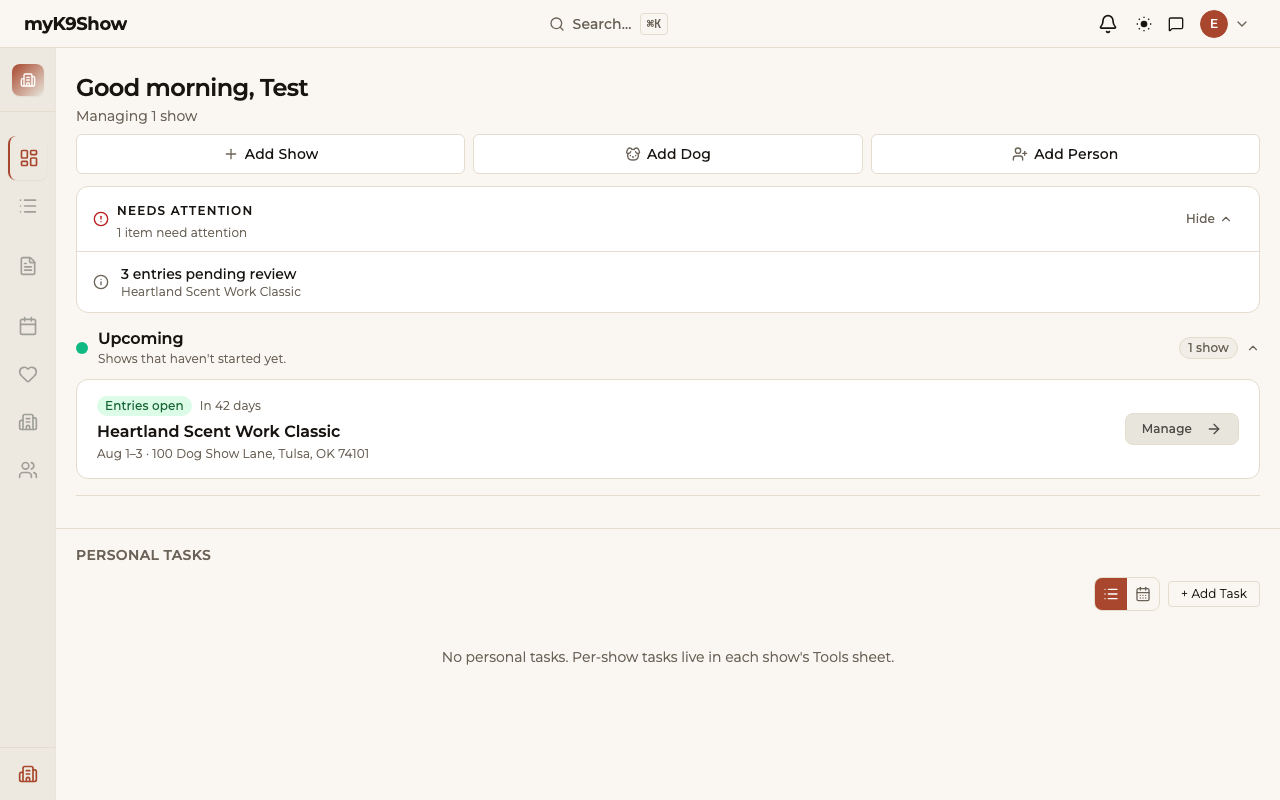
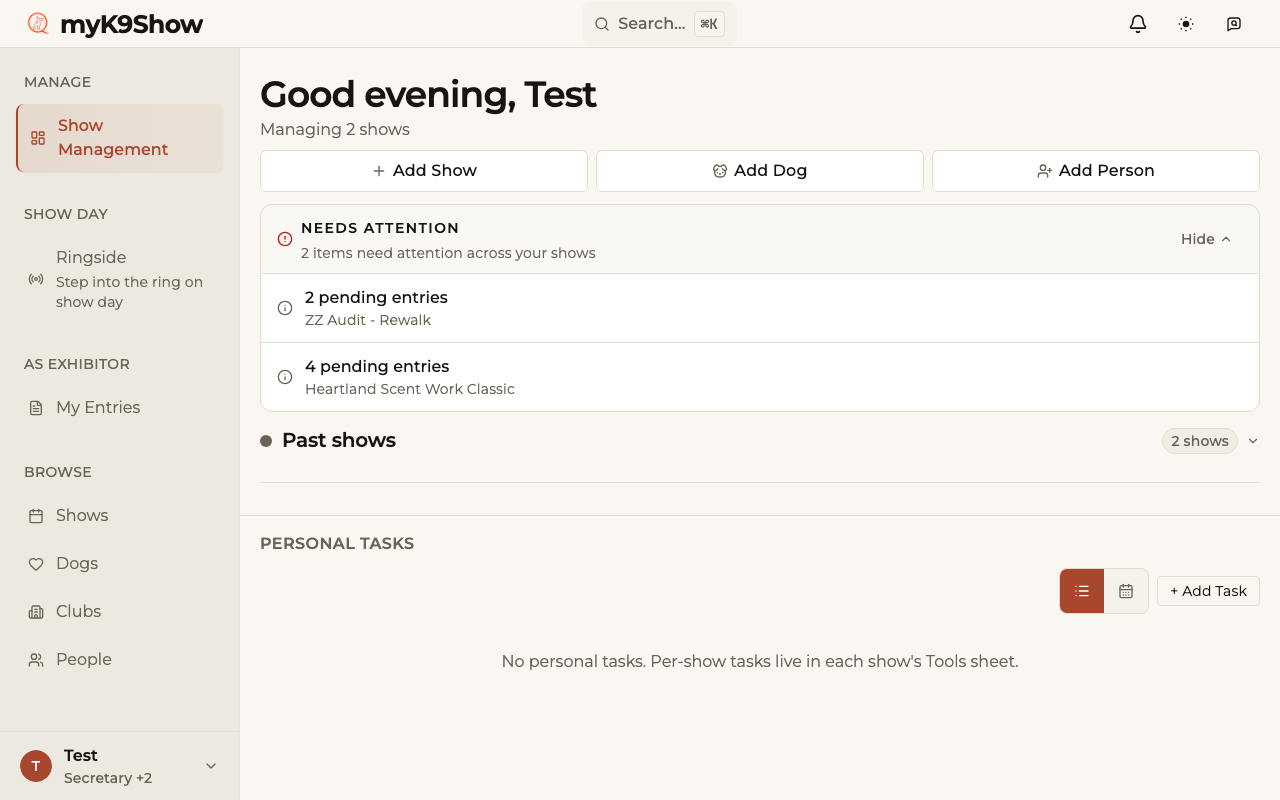
docs(secretary): recapture the guide screenshots and move it off qa-draft
The guide has been complete in words since the task walk; the only thing
keeping it at `qa-draft` was its images. The previous set was captured
2026-06-25, before the workbench collapsed into Show Desk, so it showed screens
that no longer exist -- which is why they were stripped rather than shipped.

Recaptured 8 against current `main`, and deleted the 16 stale files instead of
leaving them to be picked up by mistake. Nothing referenced them.

The set is deliberately smaller than the 24 it replaces. The guide is text-first
and a shot earns its place only where a picture settles "which screen am I on"
faster than a sentence can -- words survive a UI change, pictures do not, which
is exactly how the last set rotted. Cards without a shot are intentional.

The shot list needed rewriting too, not just re-statusing: its "Guide section"
column pointed at numbered sections that stopped existing when the guide became
23 task cards.

Two capture traps are recorded there, both found the hard way:

- Show-scoped pages open on a tall header that fills a 1280x800 viewport, so a
  plain screenshot returns the header and none of the content. The first pass
  produced exactly that.
- Show Desk and Entry Management render a real `[role="tablist"]`; Reports,
  Results and Submit Results render tab-LOOKING navigation with no tablist role,
  so a scroll anchored on that selector silently does nothing on those three.
[…]

diff --git a/docs/training/screenshot-shot-list.md b/docs/training/screenshot-shot-list.md
@@ -40,34 +40,36 @@ Every screenshot and diagram in final documentation and training materials must 
 
 ## Part 1 — Secretary Guide Screenshots
 
-| Shot ID | Description                                                                   | Route                                                         | Account                       | Viewport | Expected state                                                                              | Guide section        | Status                                            |
-| ------- | ----------------------------------------------------------------------------- | ------------------------------------------------------------- | ----------------------------- | -------- | ------------------------------------------------------------------------------------------- | -------------------- | ------------------------------------------------- |
-| S-01    | Secretary dashboard — one active show                                         | `/secretary/dashboard`                                        | `secretary@myk9t.com` | Desktop  | Heritage show listed with entry count badge                                                 | § 1 Dashboard        | `ready`                                           |
-| S-02    | Create Show wizard — Step 1 (show details)                                    | `/secretary/create-show/wizard`                               | `secretary@myk9t.com` | Desktop  | Form with name, org, dates, entry fee, entry window                                         | § 2 Create a Show    | `ready`                                           |
-| S-03    | Create Show wizard — Step 2 (trial config)                                    | `/secretary/create-show/wizard`                               | `secretary@myk9t.com` | Desktop  | At least one trial with date and event number                                               | § 2                  | `captured 2026-06-25`                             |
-| S-04    | Create Show wizard — Step 3 (class selection)                                 | `/secretary/create-show/wizard`                               | `secretary@myk9t.com` | Desktop  | Classes listed with judge assignment dropdowns                                              | § 2                  | `ready`                                           |
-| S-05    | Create Show wizard — Step 4 (review)                                          | `/secretary/create-show/wizard`                               | `secretary@myk9t.com` | Desktop  | Full review of show + trials + classes                                                      | § 2                  | `captured 2026-06-25`                             |
-| S-06    | Show Workbench — Setup tab                                                    | `/shows/:showId` (Setup tab)                                  | `secretary@myk9t.com` | Desktop  | Show details visible; readiness signals                                                     | § 3 Show Setup       | `ready`                                           |
-| S-07    | Entry Management — Needs review queue and focused registration                | `/shows/:showId/entry-management`                             | `secretary@myk9t.com` | Desktop  | Needs review selected; registration queue and focused-registration pane visible             | § 4 Entry Management | `needs recapture — cockpit redesign`              |
-| S-08    | Entry Management — focused registration Entries and actions                   | `/shows/:showId/entry-management`                             | `secretary@myk9t.com` | Desktop  | Focused registration open; Dog group expanded with child Entry status and actions visible   | § 4                  | `needs recapture — cockpit redesign`              |
-| S-09    | Entry Management — registration selection and floating toolbar                | `/shows/:showId/entry-management`                             | `secretary@myk9t.com` | Desktop  | Two or more registrations checked; compact floating toolbar shows registration/Entry counts | § 4                  | `needs recapture — cockpit redesign`              |
-| S-10    | Entry Management — Exceptions / Waitlist                                      | `/shows/:showId/entry-management?tab=exceptions&exception=waitlist` | `secretary@myk9t.com` | Desktop  | Exceptions peer visible; Waitlist selected                                                   | § 4                  | `needs recapture — cockpit redesign`              |
-| S-11    | Message Center — compose form                                                 | `/secretary/messages`                                         | `secretary@myk9t.com` | Desktop  | New message compose panel open, show pre-selected                                           | § 5 Communications   | `ready`                                           |
-| S-12    | Reports page — Check-in Sheet selected                                        | `/shows/:showId/reports`                                      | `secretary@myk9t.com` | Desktop  | Trial selector showing Heritage trial; Check-in Sheet selected                              | § 6 Reports          | `ready`                                           |
-| S-13    | Reports page — Steward's Report selected                                      | `/shows/:showId/reports`                                      | `secretary@myk9t.com` | Desktop  | Steward's Report type selected; preview rendered                                            | § 6                  | `ready`                                           |
-| S-14    | Reports page — Armband Labels                                                 | `/shows/:showId/reports`                                      | `secretary@myk9t.com` | Desktop  | Armband Labels selected; preview visible                                                    | § 6                  | `ready`                                           |
-| S-15    | Show Desk — task queue with "Show in progress" banner and Next Best Action    | `/shows/:showId/show-desk`                                    | `secretary@myk9t.com` | Desktop  | Task queue visible; "Show in progress" banner; Next Best Action button                      | § 7 Show Desk        | `ready`                                           |
-| S-16    | Entry Management — "Remove entry?" confirmation dialog                        | `/shows/:showId/entry-management`                             | `secretary@myk9t.com` | Desktop  | Focused registration open; "Remove entry?" dialog opened from a child Entry action          | § 7                  | `needs recapture — cockpit redesign`              |
-| S-17    | Show Desk — move-up dialog                                                    | `/shows/:showId/show-desk`                                    | `secretary@myk9t.com` | Desktop  | Move-up dialog open; target class picker visible                                            | § 7                  | `ready`                                           |
-| S-18    | Late Entry registration wizard — Step 1 (Select Dogs)                         | `/secretary/register/:showId?source=show-desk&entryMode=late` | `secretary@myk9t.com` | Desktop  | Late Entry wizard Step 1 open; dog search field and filters visible                         | § 7                  | `ready`                                           |
-| S-19    | Show Desk — Tools panel side sheet                                            | `/shows/:showId/show-desk`                                    | `secretary@myk9t.com` | Desktop  | Tools panel open; Late entries, Access codes, Volunteers visible                            | § 7                  | `ready`                                           |
-| S-20    | Results Control — visibility preset cards                                     | `/shows/:showId/results-control`                              | `secretary@myk9t.com` | Desktop  | Three preset cards visible; "After Class" card highlighted as active                        | § 8 Results Control  | `ready`                                           |
-| S-21    | Results Control — Release Results action bar                                  | `/shows/:showId/results-control`                              | `secretary@myk9t.com` | Desktop  | Classes selected via checkboxes; sticky bottom bar showing "Release Results" button enabled | § 8                  | `ready`                                           |
-| S-22    | Submit Results — submission summary (preflight)                               | `/shows/:showId/submit-results`                               | `secretary@myk9t.com` | Desktop  | Submission summary checklist showing entries ready count                                    | § 9 Submit to AKC    | `ready`                                           |
-| S-23    | Submit Results — XML download button                                          | `/shows/:showId/submit-results`                               | `secretary@myk9t.com` | Desktop  | "Download XML" button visible; no blocking warnings                                         | § 9                  | `ready`                                           |
-| S-24    | Submit Results — preflight warning (missing AKC numbers)                      | `/shows/:showId/submit-results`                               | `secretary@myk9t.com` | Desktop  | Warning listing dogs without AKC registration numbers                                       | § 9                  | `ready`                                           |
+> **Rewritten 2026-08-30.** The guide was restructured from numbered `§` sections into
+> 23 task cards, so the old section column pointed at headings that no longer exist. The
+> set is also deliberately smaller: the guide is text-first, and a shot earns its place
+> only where a picture settles *which screen am I on* faster than a sentence can. Words
+> survive a UI change; pictures do not — the previous set went stale the moment the
+> workbench collapsed into Show Desk, and sixteen files were deleted rather than left to
+> be reused by mistake.
 
----
+| Shot ID | Description | Route | Account | Viewport | Expected state | Guide card | Status |
+| --- | --- | --- | --- | --- | --- | --- | --- |
+| S-01 | Secretary dashboard | `/secretary/dashboard` | `secretary@myk9t.com` | Desktop | Managed shows listed with the needs-attention summary | Before you start | `captured 2026-08-30` |
+| S-02 | Create Show wizard — Step 1 | `/secretary/create-show/wizard` | `secretary@myk9t.com` | Desktop | Four-step tracker; clone option; starred required fields | 1 · Create a show | `captured 2026-08-30` |
+| S-07 | Entry Management — Needs review queue | `/shows/:showId/entry-management` | `secretary@myk9t.com` | Desktop | Queue chips with counts; rows offering Review registration | 3 · Approve entries | `captured 2026-08-30` |
+| S-10 | Entry Management — Exceptions / Waitlist | `/shows/:showId/entry-management?tab=exceptions&exception=waitlist` | `secretary@myk9t.com` | Desktop | Exceptions tab with the waitlist selected | 6 · Manage the wait list | `captured 2026-08-30` |
+| S-12 | Reports — Check-in Sheet | `/shows/:showId/reports` | `secretary@myk9t.com` | Desktop | Report / Trial / Class / Sort controls and Print | 11 · Print check-in sheets | `captured 2026-08-30` |
+| S-15 | Show Desk — focused class | `/shows/:showId/show-desk` | `secretary@myk9t.com` | Desktop | Focused class with the Run order control and Move up per entry | 10 · Run order, 15 · Move up | `captured 2026-08-30` |
+| S-20 | Results — visibility presets | `/shows/:showId/results-control` | `secretary@myk9t.com` | Desktop | Readiness panel; Immediately / After Class / After Review | 19 · Release results | `captured 2026-08-30` |
+| S-22 | Submit Results | `/shows/:showId/submit-results` | `secretary@myk9t.com` | Desktop | Send to AKC, Download XML, Mark as submitted; closeout guidance | 20 · Submit to the registry | `captured 2026-08-30` |
+
+**Capturing these again.** Two things bite, both discovered the hard way:
+
+1. Show-scoped pages open on a tall header that fills a 1280×800 viewport, so a plain
+   screenshot returns the header and none of the tab content. Scroll first.
+2. Show Desk and Entry Management render a real `[role="tablist"]`; Reports, Results and
+   Submit Results render tab-*looking* navigation with **no tablist role**, so a scroll
+   anchored on that selector silently does nothing there. Anchor on the tablist when it
+   exists, fall back to a fixed offset, and verify the page actually moved.
+
+Cards without a shot are intentional, not missing.
+
 
 ## Part 2 — Exhibitor Guide Screenshots
 

diff --git a/docs/user-guides/secretary-guide.md b/docs/user-guides/secretary-guide.md
@@ -1,8 +1,8 @@
 # Secretary Guide
 
-**Status:** `qa-draft`
+**Status:** `active`
 **Audience:** Trial secretaries
-**Last verified:** 2026-08-30 — walked in a browser against staging (`a50596ad6`)
+**Last verified:** 2026-08-30 — walked in a browser, screenshots recaptured against `main`
 **Verified by:** the secretary task walk (`docs/audits/2026-08-28-secretary-task-walk.md`) and its 2026-08-29 verification pass
 
 > **What "verified" covers here.** Each card's path was opened on staging and its controls
@@ -10,11 +10,11 @@
 > described from their surfaces only: promoting someone off the wait list (nobody is
 > waitlisted there) and submitting results to a registry (that is a real submission).
 
-> **Screenshots are pending.** The previous guide embedded shots captured 2026-06-25,
-> before the workbench was collapsed into Show Desk. They show screens that no longer
-> exist, so they have been removed rather than left to mislead. The `S-*` files are
-> still in `docs/screenshots/` and need recapturing against the current UI before this
-> guide moves off `qa-draft`.
+> **About the screenshots.** Recaptured 2026-08-30 against the current UI. The previous
+> set predated the workbench collapsing into Show Desk and showed screens that no longer
+> exist; those sixteen files are deleted rather than left to be reused by mistake. Shots
+> are placed only where a picture settles "which screen am I even on" — the rest of the
+> guide is deliberately text, because words survive a UI change and pictures do not.
 
 > **How this guide is organised.** One card per job, in the order you'll do them. Each card tells you where to go, what to do, and what to watch for. If you only need one thing, jump to its card — they don't depend on each other.
 
@@ -23,6 +23,8 @@
 ## Before you start
 
 **Sign in** at the show's URL and you land on your Secretary Dashboard. It lists the shows you manage with entry counts and anything needing attention.
+
+![Secretary dashboard listing managed shows with a needs-attention summary](../screenshots/S-01.png)
 
 Two words appear throughout the app and are worth knowing up front:
 
@@ -38,6 +40,8 @@ Most day-of jobs live behind **Show Desk → Tools**.
 ## 1 · Create a show, its trials, and its classes
 
 The wizard creates all three in one pass. **Dashboard → Create Show.**
+
+![Create Show wizard on Step 1, showing the four steps and the starred required fields](../screenshots/S-02.png)
 
 1. **Step 1 — Show Details.** Name, organization (AKC/UKC/ASCA), dates, location, host club, entry fee, and the entry open/close dates. Add your **chairman** and **secretary**.
 2. **⚠ Also on Step 1: add every judge** in the _Show Judges_ field. It looks optional. It is not — see the warning below.
@@ -66,6 +70,8 @@ The wizard creates all three in one pass. **Dashboard → Create Show.**
 
 **Entry Management → Needs review.** Each registration shows the dog, the entry count, and payment status. Choose **Review registration** to accept, decline, or ask for a correction.
 
+![Entry Management with the Needs review queue selected and Review registration on each row](../screenshots/S-07.png)
+
 The chips across the top are queues — _Needs review_, _Missing information_, _Payment due_, _All registrations_. The active one is highlighted; the counts beside each tell you what's waiting.
 
 ## 4 · Enter a mail-in or paper entry
@@ -92,6 +98,8 @@ The chips across the top are queues — _Needs review_, _Missing information_, _
 ## 6 · Manage the wait list
 
 **Entry Management → Exceptions → Waitlist.**
+
+![Entry Management Exceptions tab with the waitlist selected](../screenshots/S-10.png)
 
 1. Each judge-day shows as a card — the judge's name, the date, and how full it is.
 2. **View Wait List** on a card opens that judge-day's queue, filtered to the class.
@@ -138,6 +146,8 @@ Payment status shows on every registration row in **Entry Management**, and refu
 
 **Show Desk → click the class → Run order.**
 
+![Show Desk focused class showing the Run order control and Move up on each entry](../screenshots/S-15.png)
+
 Choose **Armband ↑**, **Armband ↓**, or **Random**. The order applies immediately and appears on check-in sheets and at ringside.
 
 > You can also reach this from a class's page — **Set run order** takes you straight to that class on Show Desk.
@@ -147,6 +157,8 @@ Choose **Armband ↑**, **Armband ↓**, or **Random**. The order applies immedi
 ## 11 · Print check-in sheets
 
 **Reports → Check-in Sheet.** Scope it to a trial or a single class, then print. Columns are Gate Order, Armband, Call Name, Breed, and Handler.
+
+![Reports page with Check-in Sheet chosen and the trial, class and sort controls](../screenshots/S-12.png)
 
 ## 12 · Print scoresheets
 
@@ -200,6 +212,8 @@ Per dog, record Q / NQ / ABS / EX, the search time, and any faults. Search time 
 
 **Show Desk → Results** (the show's Results control).
 
+![Results page showing readiness and the Immediately, After Class and After Review presets](../screenshots/S-20.png)
+
 Each class can release its results **Immediately**, **After Class**, **After Review**, or **Inherit** the show's setting. Set the show-level default, then override any class that needs it.
 
 > This is what decides whether an exhibitor can see a score yet. If results are not appearing for exhibitors, this is the first place to look — a class set to _After Review_ stays hidden until you review it.
@@ -209,6 +223,8 @@ Each class can release its results **Immediately**, **After Class**, **After Rev
 ## 20 · Submit results to the registry
 
 **Show Desk → Submit Results.** What you see here depends on the registry.
+
+![Submit Results with Send to AKC, Download XML and Mark as submitted](../screenshots/S-22.png)
 
 **If the registry accepts electronic submission (AKC):**
 
